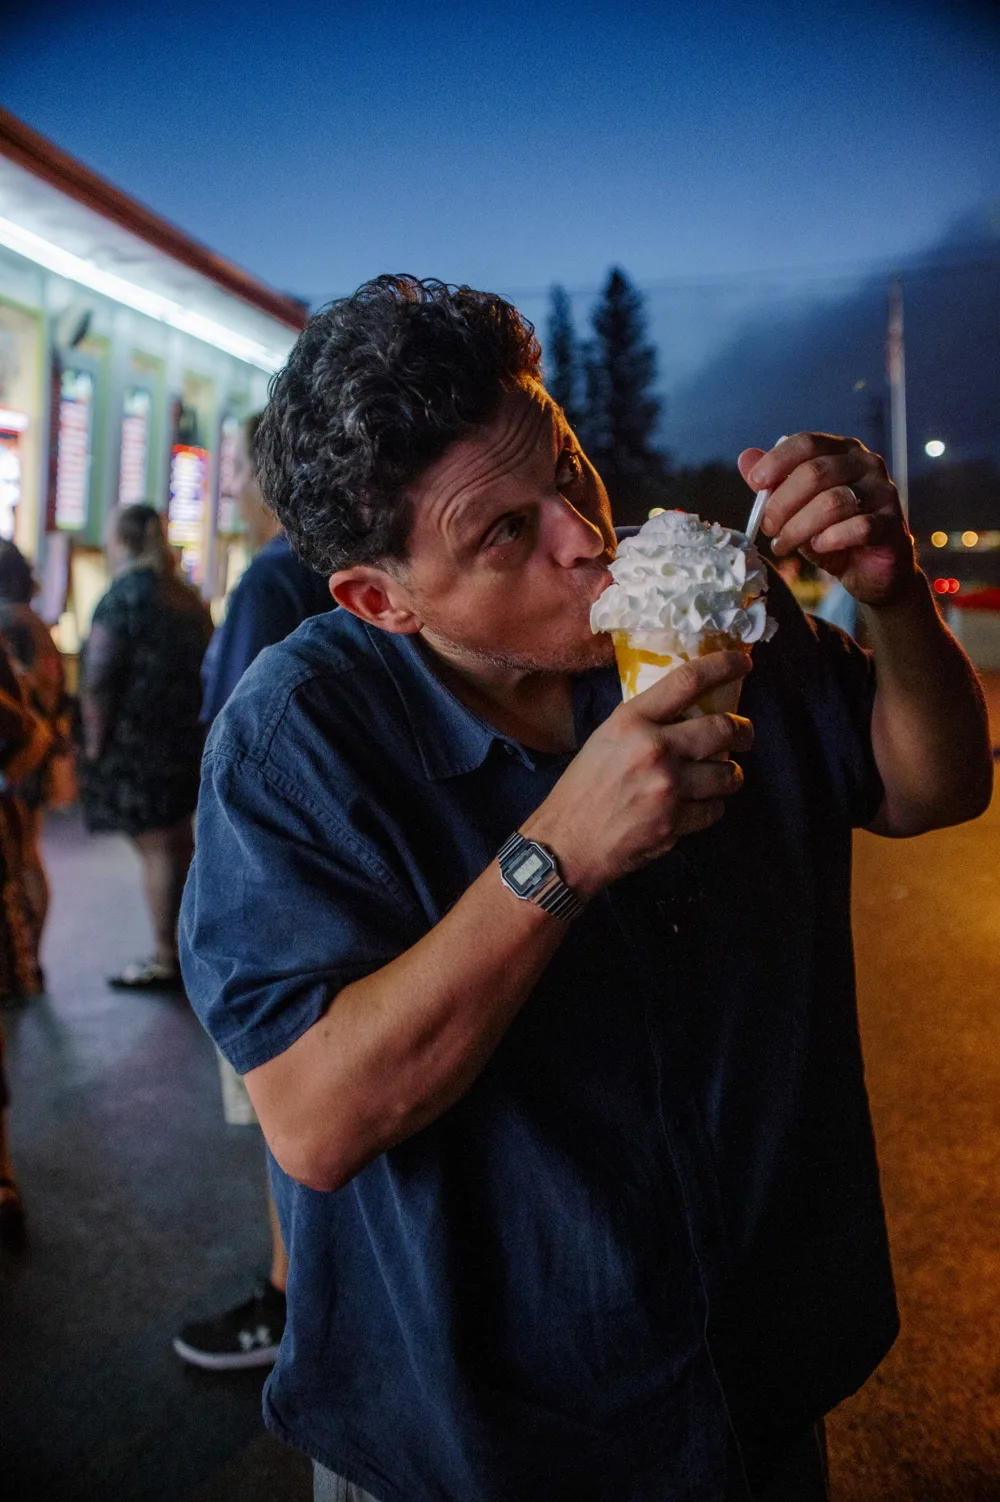
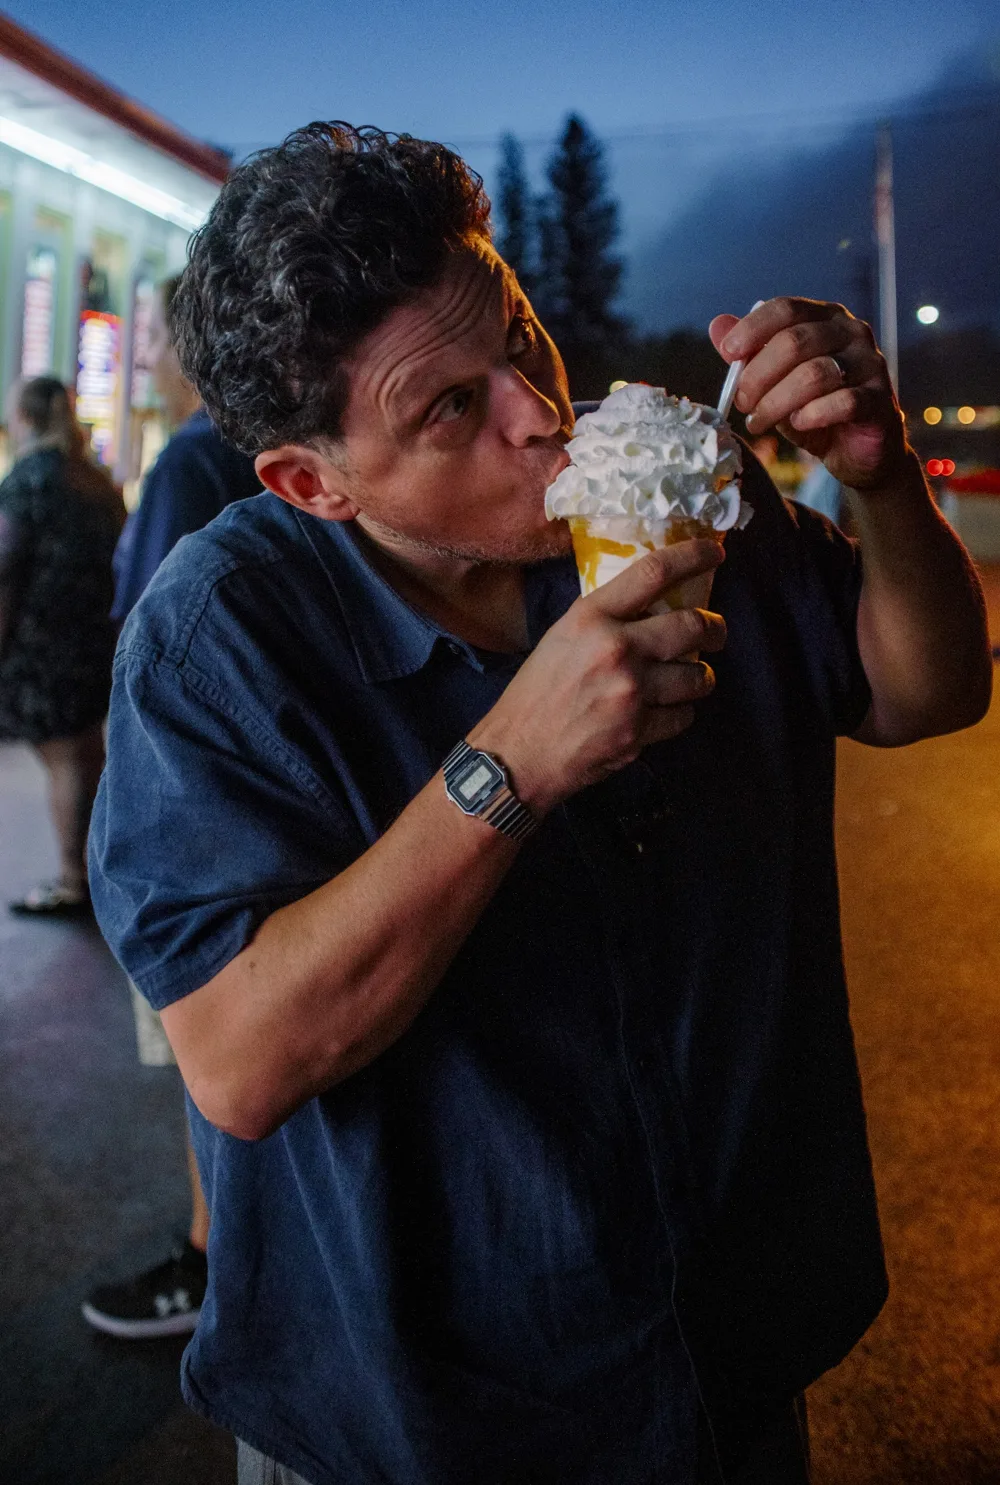
About photo: tighter framing, less sky and less space on the left
Claude-Session: https://claude.ai/code/session_01USnXVqi7P6eTAVrnvqwGLB

diff --git a/styles.css b/styles.css
@@ -515,7 +515,7 @@ main { padding-block: 8px 80px; outline: none; }
 }
 .about-split .about-links { justify-content: flex-start; }
 .about-photo { position: relative; margin: 0; min-height: 320px; width: 100%; justify-self: stretch; background: var(--surface); }
-.about-photo img { position: absolute; inset: 0; width: 100%; height: 100%; object-fit: cover; object-position: 50% 30%; }
+.about-photo img { position: absolute; inset: 0; width: 100%; height: 100%; object-fit: cover; object-position: 50% 12%; }
 @media (max-width: 760px) {
   .about.about-split { grid-template-columns: minmax(0, 1fr); }
   .about-photo { order: -1; min-height: 0; aspect-ratio: 4 / 5; max-width: 420px; width: 100%; justify-self: center; }
